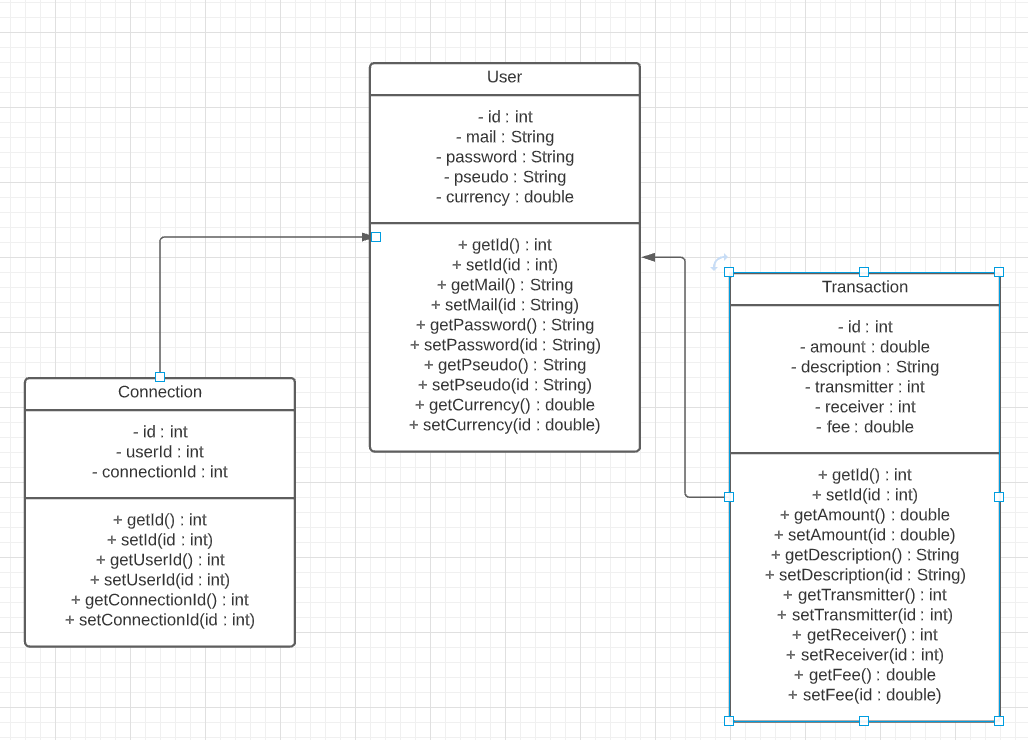
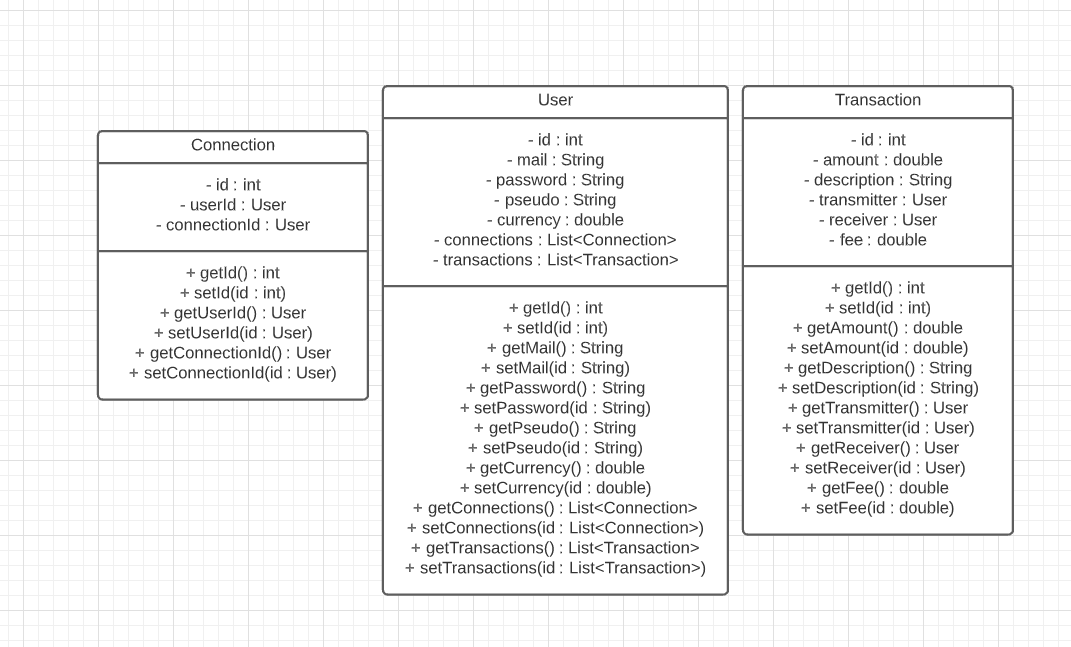
Mise a jour diagramme

diff --git a/src/main/java/com/paymybuddy/PayMyBuddy/service/TransactionService.java b/src/main/java/com/paymybuddy/PayMyBuddy/service/TransactionService.java
@@ -47,7 +47,7 @@ public class TransactionService {
 		Authentication authentication = SecurityContextHolder.getContext().getAuthentication();
 		User user = usersRepository.getByPseudo(authentication.getName());
 		List<TransactionHistoryDTO> historyResult = new ArrayList<>();
-		List<Transaction> allTransaction = user.getTransaction();//transactionsRepository.findByTransmitter(user.getId());
+		List<Transaction> allTransaction = user.getTransactions();//transactionsRepository.findByTransmitter(user.getId());
 		Collections.reverse(allTransaction);
 		int id = (page-1)*3;
 		for(int i = 0; i<3;i++) {
@@ -65,7 +65,7 @@ public class TransactionService {
 	public int getAllPage() {
 		Authentication authentication = SecurityContextHolder.getContext().getAuthentication();
 		User user = usersRepository.getByPseudo(authentication.getName());
-		List<Transaction> allTransaction = user.getTransaction();
+		List<Transaction> allTransaction = user.getTransactions();
 		int number = allTransaction.size()/3;
 		if(allTransaction.size() %3>0) number++;
 		return number;

diff --git a/src/main/java/com/paymybuddy/PayMyBuddy/model/User.java b/src/main/java/com/paymybuddy/PayMyBuddy/model/User.java
@@ -41,5 +41,5 @@ public class User {
     
     @OneToMany()
     @JoinColumn(name = "transmitter", referencedColumnName = "id")
-    private List<Transaction> transaction;
+    private List<Transaction> transactions;
 }
